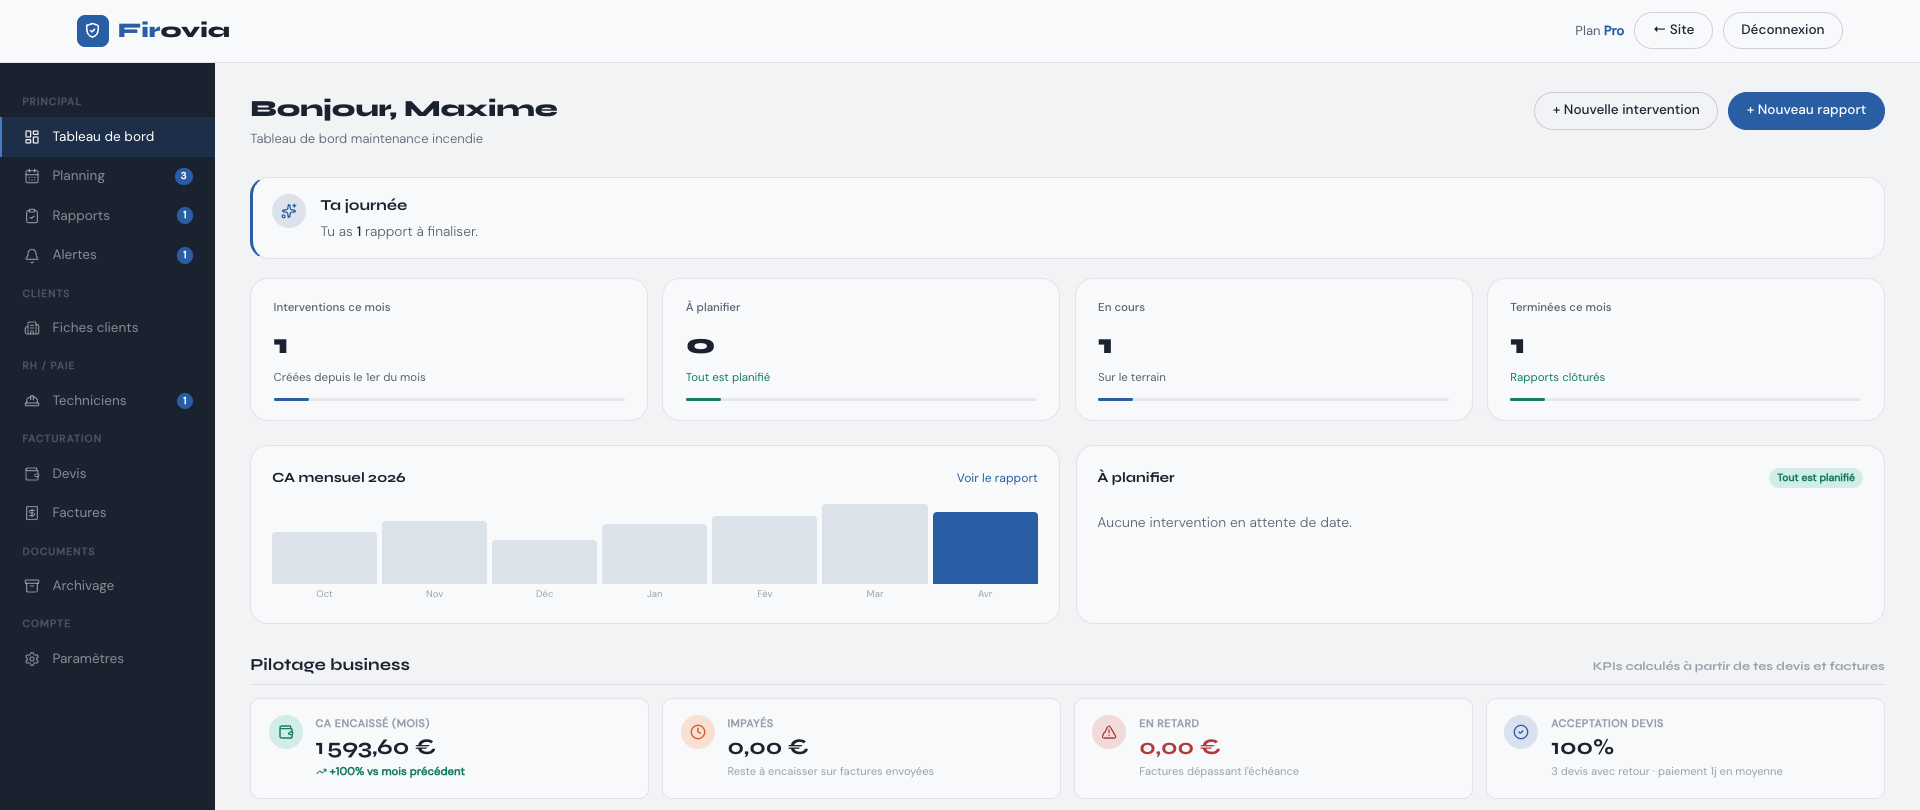
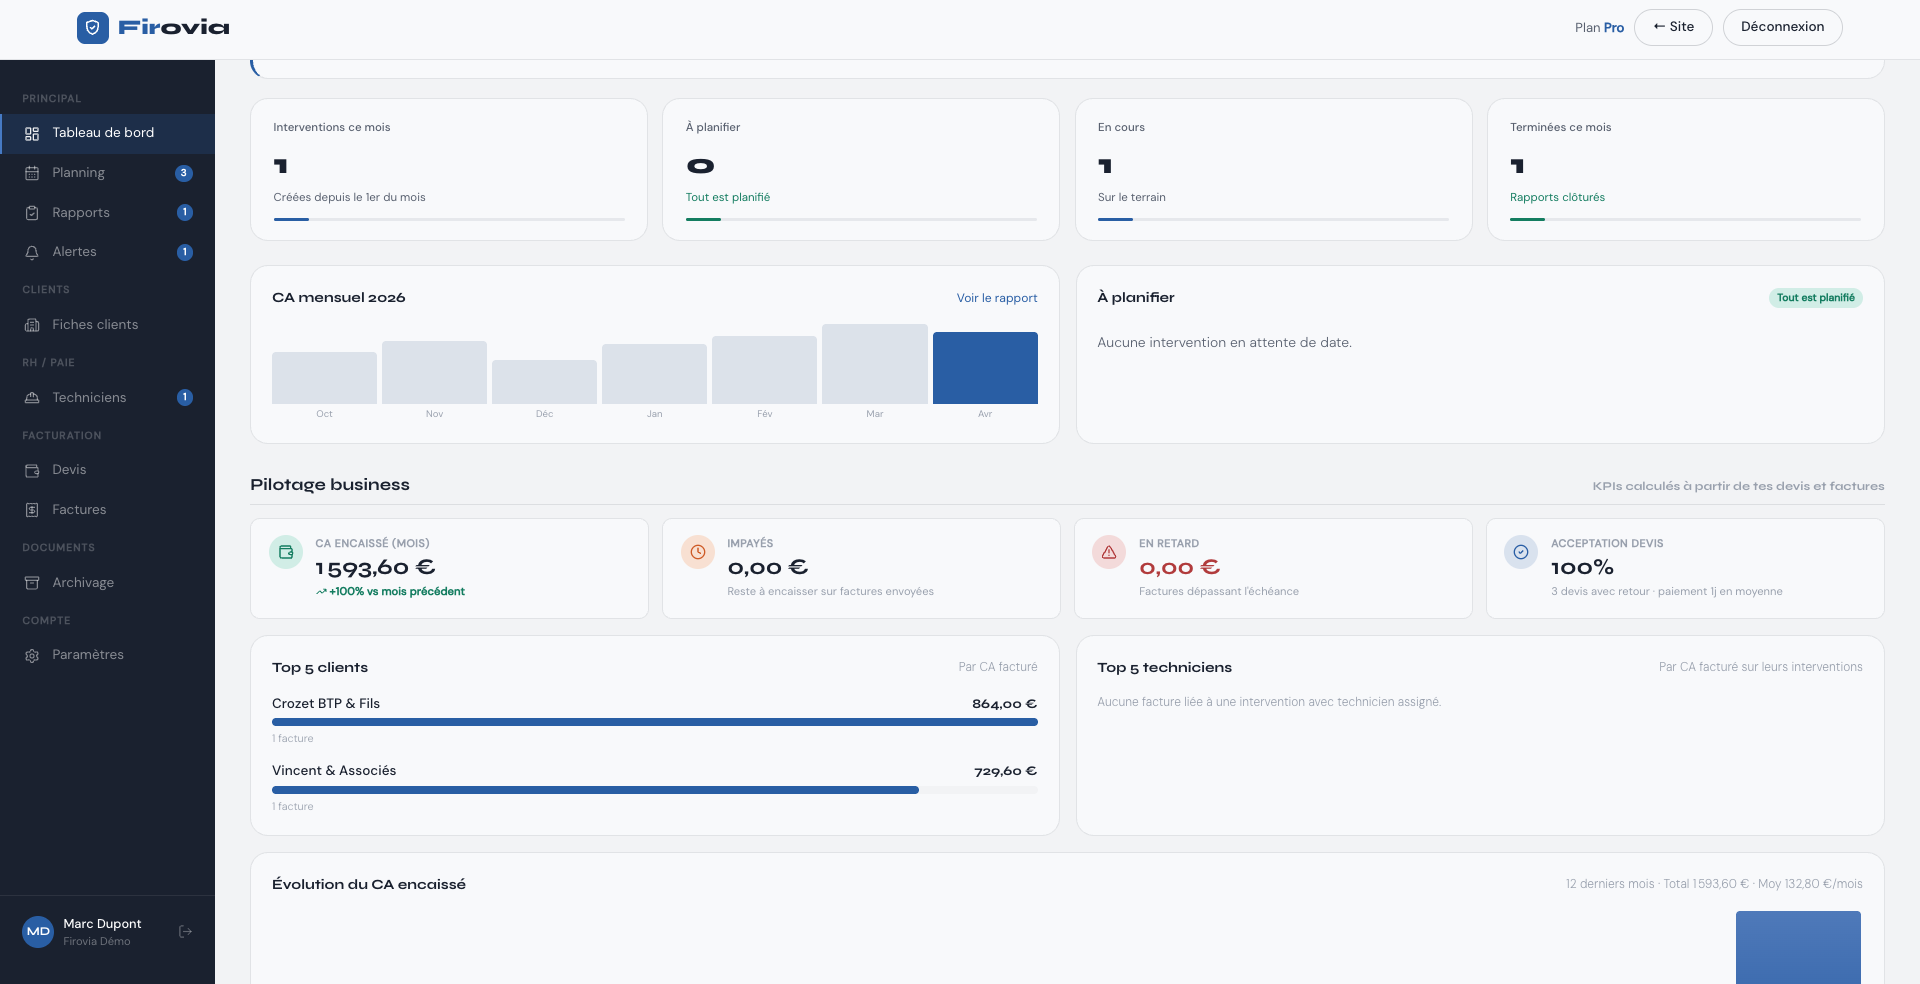
feat(vitrine): showcase animé avec 10 onglets et screenshots anonymisés
SHOWCASE INTERACTIF
- Système de tabs avec 10 sections du SaaS Firovia
- Auto-rotation toutes les 4.5s quand visible
- Click manuel sur tab arrête l'auto-rotate
- Transition fade smooth entre les screens
- Détection visibilité via IntersectionObserver

SCREENSHOTS ANONYMISÉS
Toutes les données réelles ont été remplacées par des données fictives
crédibles avec couverture nationale française :
- Org : Firovia Démo (était Sécurité Pro Test)
- Admin : Marc Dupont (était Maxime Vincent)
- Clients répartis : Paris, Lyon, Rennes, Lille, Marseille, Bordeaux, Toulouse
  • Crozet BTP & Fils (Paris)
  • Vincent & Associés (Lyon)
  • Résidence Les Tilleuls (Rennes)
  • Toiture Pro Nord (Lille)
  • Clinique du Parc (Marseille)
  • Tertiaire Services (Bordeaux)
  • Levavasseur SARL (Toulouse)
- Techniciens : Thomas Moreau (sénior), Julien Pariseau
- Téléphones et emails fictifs avec indicatifs régionaux cohérents

ONGLETS DU SHOWCASE
1. 📊 Dashboard       — KPIs + Top clients + CA
2. 📅 Planning        — Calendrier interventions
3. 📄 Rapports        — Liste + PDF
4. 🔔 Alertes         — Échéances réglementaires
5. 🏢 Clients         — Fiches multi-sites
6. 👷 Techniciens     — RH terrain
7. 📝 Devis           — Génération PDF
8. 💰 Factures        — Suivi paiement
9. 📂 Archivage       — Centralisation docs
10. ⚙ Paramètres     — Config organisation

SCRIPT
- scripts/anonymize-firovia-data.sql : à conserver pour ré-anonymiser
  si jamais des vraies données sont entrées par erreur

diff --git a/index.html b/index.html
@@ -69,8 +69,16 @@ body{padding-top:65px;}
 /* ── SCREENSHOT ── */
 .screenshot-sec{padding:1rem 4% 3.5rem;background:var(--bg);}
 .screenshot-wrap{max-width:1200px;margin:0 auto;}
-.screenshot-frame{position:relative;border-radius:14px;overflow:hidden;box-shadow:0 28px 80px rgba(28,33,48,.18), 0 8px 20px rgba(28,33,48,.06);border:1px solid var(--brd);background:white;}
-.screenshot-img{width:100%;display:block;}
+.screenshot-frame{position:relative;border-radius:14px;overflow:hidden;box-shadow:0 28px 80px rgba(28,33,48,.18), 0 8px 20px rgba(28,33,48,.06);border:1px solid var(--brd);background:white;aspect-ratio:16/9.5;}
+.screenshot-img{width:100%;display:block;position:absolute;top:0;left:0;opacity:0;transition:opacity .6s ease;pointer-events:none;}
+.screenshot-img.active{opacity:1;}
+
+/* ── SHOWCASE TABS ── */
+.showcase-tabs{display:flex;justify-content:center;gap:.4rem;margin-bottom:1.4rem;flex-wrap:wrap;}
+.showcase-tab{display:inline-flex;align-items:center;gap:7px;background:white;border:1px solid var(--brd);color:var(--ink2);padding:.55rem 1.1rem;border-radius:100px;font-size:.85rem;font-weight:500;cursor:pointer;transition:all .25s ease;font-family:'Inter',sans-serif;}
+.showcase-tab:hover{background:var(--bg2);color:var(--ink);}
+.showcase-tab.active{background:var(--acc);color:white;border-color:var(--acc);box-shadow:0 4px 14px rgba(58,92,168,.25);}
+.showcase-tab-ico{font-size:1rem;}
 
 /* ── BLOC VALEUR ── */
 .value-sec{padding:5rem 4% 4rem;text-align:center;background:var(--wht);}
@@ -306,11 +314,55 @@ footer p{font-size:.76rem;color:rgba(255,255,255,.28);}
   <p class="hero-reassurance">Sans carte bancaire · Sans engagement · Opérationnel en 48h</p>
 </section>
 
-<!-- SCREENSHOT -->
+<!-- SHOWCASE TABS -->
 <section class="screenshot-sec">
   <div class="screenshot-wrap">
+    <!-- Tabs -->
+    <div class="showcase-tabs">
+      <button class="showcase-tab active" data-tab="dashboard" onclick="showTab('dashboard')">
+        <span class="showcase-tab-ico">📊</span> Dashboard
+      </button>
+      <button class="showcase-tab" data-tab="planning" onclick="showTab('planning')">
+        <span class="showcase-tab-ico">📅</span> Planning
+      </button>
+      <button class="showcase-tab" data-tab="rapports" onclick="showTab('rapports')">
+        <span class="showcase-tab-ico">📄</span> Rapports
+      </button>
+      <button class="showcase-tab" data-tab="alertes" onclick="showTab('alertes')">
+        <span class="showcase-tab-ico">🔔</span> Alertes
+      </button>
+      <button class="showcase-tab" data-tab="clients" onclick="showTab('clients')">
+        <span class="showcase-tab-ico">🏢</span> Clients
+      </button>
+      <button class="showcase-tab" data-tab="techniciens" onclick="showTab('techniciens')">
+        <span class="showcase-tab-ico">👷</span> Techniciens
+      </button>
+      <button class="showcase-tab" data-tab="devis" onclick="showTab('devis')">
+        <span class="showcase-tab-ico">📝</span> Devis
+      </button>
+      <button class="showcase-tab" data-tab="factures" onclick="showTab('factures')">
+        <span class="showcase-tab-ico">💰</span> Factures
+      </button>
+      <button class="showcase-tab" data-tab="archivage" onclick="showTab('archivage')">
+        <span class="showcase-tab-ico">📂</span> Archivage
+      </button>
+      <button class="showcase-tab" data-tab="parametres" onclick="showTab('parametres')">
+        <span class="showcase-tab-ico">⚙</span> Paramètres
+      </button>
+    </div>
+
+    <!-- Screenshot frame avec slides -->
     <div class="screenshot-frame">
-      <img src="dashboard.png" alt="Dashboard Firovia — Vue d'ensemble de votre activité maintenance incendie" class="screenshot-img" loading="lazy"/>
+      <img src="dashboard.png" alt="Dashboard Firovia — Vue d'ensemble de votre activité" class="showcase-img active" data-tab="dashboard" loading="lazy"/>
+      <img src="planning.png" alt="Planning des interventions" class="showcase-img" data-tab="planning" loading="lazy"/>
+      <img src="rapports.png" alt="Rapports d'intervention avec PDF" class="showcase-img" data-tab="rapports" loading="lazy"/>
+      <img src="alertes.png" alt="Alertes réglementaires automatiques" class="showcase-img" data-tab="alertes" loading="lazy"/>
+      <img src="clients.png" alt="Fiches clients multi-sites" class="showcase-img" data-tab="clients" loading="lazy"/>
+      <img src="techniciens.png" alt="Gestion des techniciens" class="showcase-img" data-tab="techniciens" loading="lazy"/>
+      <img src="devis.png" alt="Devis avec génération PDF" class="showcase-img" data-tab="devis" loading="lazy"/>
+      <img src="factures.png" alt="Factures avec suivi paiement" class="showcase-img" data-tab="factures" loading="lazy"/>
+      <img src="archivage.png" alt="Archivage centralisé de tous vos documents" class="showcase-img" data-tab="archivage" loading="lazy"/>
+      <img src="parametres.png" alt="Paramètres organisation" class="showcase-img" data-tab="parametres" loading="lazy"/>
     </div>
   </div>
 </section>
@@ -789,6 +841,55 @@ function submitForm(e){
 }
 // Fermer modal avec Escape
 document.addEventListener('keydown',(e)=>{if(e.key==='Escape')closeModal();});
+
+// ─── SHOWCASE TABS (auto-rotate + click) ──────────────────────────
+const SHOWCASE_TABS=['dashboard','planning','rapports','alertes','clients','techniciens','devis','factures','archivage','parametres'];
+let showcaseCurrentIndex=0;
+let showcaseAutoRotate=null;
+let showcaseUserInteracted=false;
+
+function showTab(tabName, fromAuto){
+  // Désactive l'auto-rotate si l'user clique manuellement
+  if(!fromAuto){
+    showcaseUserInteracted=true;
+    if(showcaseAutoRotate){clearInterval(showcaseAutoRotate);showcaseAutoRotate=null;}
+  }
+  // Toggle tabs
+  document.querySelectorAll('.showcase-tab').forEach((t)=>{
+    t.classList.toggle('active',t.dataset.tab===tabName);
+  });
+  // Toggle images
+  document.querySelectorAll('.showcase-img').forEach((img)=>{
+    img.classList.toggle('active',img.dataset.tab===tabName);
+  });
+  // Update index for auto-rotate continuity
+  const idx=SHOWCASE_TABS.indexOf(tabName);
+  if(idx>=0)showcaseCurrentIndex=idx;
+}
+
+function startShowcaseAutoRotate(){
+  if(showcaseUserInteracted)return;
+  showcaseAutoRotate=setInterval(()=>{
+    showcaseCurrentIndex=(showcaseCurrentIndex+1)%SHOWCASE_TABS.length;
+    showTab(SHOWCASE_TABS[showcaseCurrentIndex],true);
+  },4500); // 4.5 secondes par onglet
+}
+
+// Démarre l'auto-rotate quand la section showcase est visible
+if('IntersectionObserver' in window){
+  const showcaseObserver=new IntersectionObserver((entries)=>{
+    entries.forEach((entry)=>{
+      if(entry.isIntersecting && !showcaseAutoRotate && !showcaseUserInteracted){
+        startShowcaseAutoRotate();
+      }
+    });
+  },{threshold:0.3});
+  const showcaseSec=document.querySelector('.screenshot-sec');
+  if(showcaseSec)showcaseObserver.observe(showcaseSec);
+} else {
+  // Fallback : démarre directement
+  startShowcaseAutoRotate();
+}
 </script>
 
 </body>
